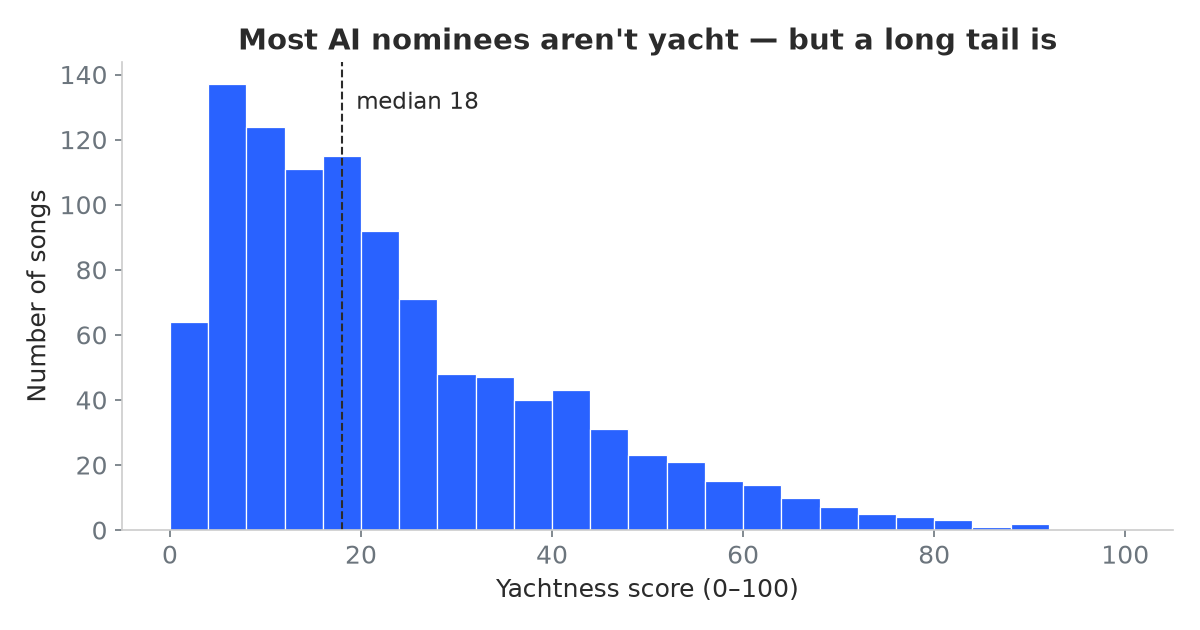
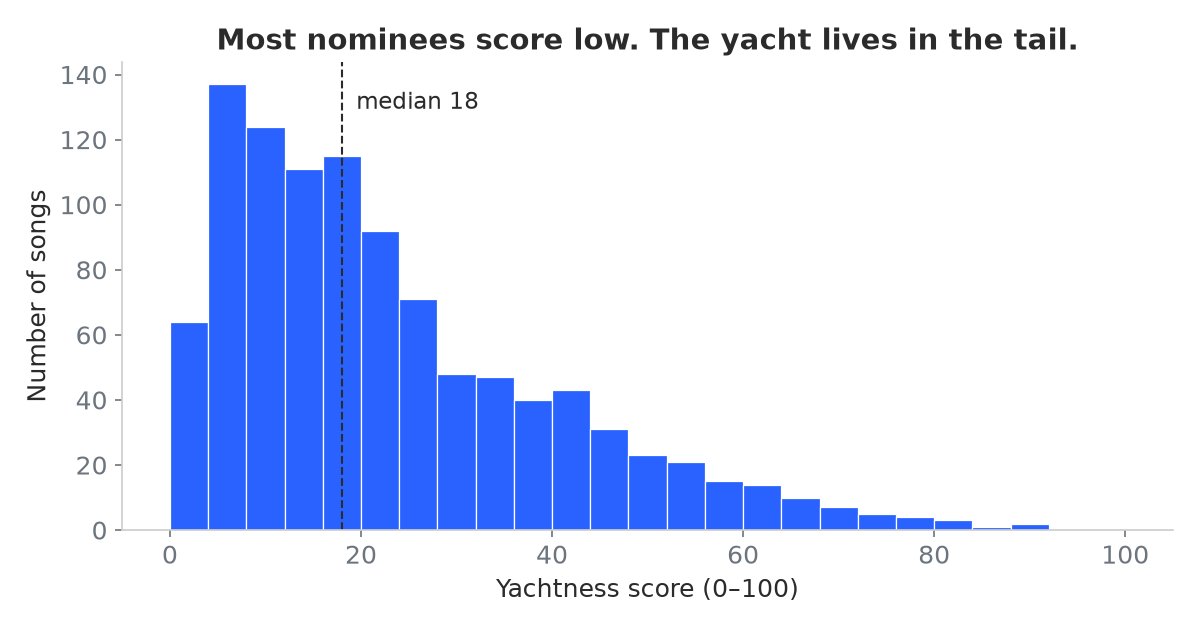
Rewrite blog posts in a more natural voice
Rework both posts to read more personally, drop dash punctuation,
deepen the analysis (era effect, Djavan's top-50 count, the AI's
top-20 flop), and embed the Brazilian Yacht Rock Spotify playlist.

Changed region(s): [[0.185, 0.0302, 0.8942, 0.0905]]

diff --git a/blog-brazilian-yacht-rock.html b/blog-brazilian-yacht-rock.html
@@ -49,12 +49,12 @@
     <h1 class="post-title">The Brazilian Yacht Rock Leaderboard</h1>
     <p class="post-meta">Published <time datetime="2026-07-22T22:58:00-04:00">July 22, 2026 · 10:58 PM EDT</time> · by Felipe Maia Polo</p>
 
-    <p class="lead">Brazil spent the late '70s and '80s perfecting its own strain of smooth — boogie, MPB, and jazz-funk built on the same Rhodes pianos, session players, and immaculate production as the yacht rock canon. So I asked a question: if there were a playlist called <em>Brazilian Yacht Rock</em>, what would be on it — and how yachty is it, really?</p>
+    <p class="lead">Brazil spent the late '70s and '80s perfecting its own kind of smooth. Boogie, MPB, and jazz-funk records built on the same Rhodes pianos, session players, and immaculate production that the yacht rock canon is made of. As a Brazilian who <a href="blog-yachtness-score.html">built a yacht rock detector</a>, I had to know: how yachty is Brazilian music, really?</p>
 
     <h2>The experiment</h2>
-    <p>The setup was a small collaboration between two very different kinds of model. First I asked a large language model to imagine a 1,000-song "Brazilian Yacht Rock" playlist. It returned a candidate list of <strong>1,177 songs</strong>, each tagged with its own genre label ("Core Boogie", "Smooth MPB", "Soul Suave", and so on).</p>
-    <p>Then I matched those candidates against Deezer's catalogue with strict artist-and-title verification — fuzzy matches discarded rather than risked — which left <strong>1,028 songs (87%)</strong> with a real 30-second preview. Every one of them went through the <a href="blog-yachtness-score.html">exact same model</a> that powers Yachtness Score. The top 50 are now live on the <a href="https://yachtness.org/leaderboard">leaderboard</a>.</p>
-    <p>The angle, in one line: <strong>the AI curated the candidates, but the model was the judge.</strong></p>
+    <p>I started with a question to a large language model: if there were a Spotify playlist called Brazilian Yacht Rock, which 1,000 songs would be on it? It came back with 1,177 candidates, each tagged with its own invented genre label. "Core Boogie," "Smooth MPB," "Soul Suave," and so on. Honestly, a pretty good taxonomy.</p>
+    <p>I matched those candidates against Deezer's catalogue with strict artist and title verification, dropping anything fuzzy rather than risking a wrong match. That left 1,028 songs, 87% of the list, each with a real 30-second preview. Then every one of them went through the exact same model that powers Yachtness Score. No special treatment for being Brazilian. The top 50 are now a permanent section on the <a href="https://yachtness.org/leaderboard">leaderboard</a>.</p>
+    <p>So the division of labor was: the AI curated the candidates, and the model judged them. Keep that split in mind, because it turns out to matter.</p>
 
     <figure>
       <img src="images/blog/brazilian_leaderboard.png" alt="The Brazilian Yacht Rock leaderboard, showing Carlos Bivar's 'Maré' and Djavan's 'Miragem' tied at the top with a score of 88.">
@@ -62,42 +62,54 @@
     </figure>
 
     <h2>Who won</h2>
-    <p>The two yachtiest songs are <strong>Carlos Bivar — "Maré" (88)</strong> and <strong>Djavan — "Miragem" (88)</strong>. And then there's Djavan again. And again. He takes <strong>four of the top six</strong> spots (Miragem, Infinito, Topázio, Lilás) — which makes a decent case for Djavan as Brazil's Michael McDonald. <strong>Ed Motta</strong> and <strong>Marcos Valle</strong> feature heavily just below.</p>
-    <p>One entry is special: Marcos Valle's <strong>"Estrelar" (77)</strong> is one of only five songs on the board the Yacht or Nyacht? hosts have <em>actually</em> rated — and it was also the AI's number-one pick. The model, the humans, and the language model all liked it. Consensus is rare here.</p>
+    <p>Two songs tie for first at 88: "Maré" by Carlos Bivar, a gorgeous obscurity, and "Miragem" by Djavan, which is not obscure at all if you grew up in Brazil. And then Djavan just keeps going. He has four of the top six ("Miragem," "Infinito," "Topázio," "Lilás") and eight of the top 50, more than any other artist. I went in expecting him to do well and he still beat my expectations. If yacht rock has a Brazilian Michael McDonald, the data says it is Djavan.</p>
+    <p>Behind him, Ed Motta and Lucas Arruda have four top-50 songs each, and Banda Black Rio has three. Marcos Valle is there too, and his "Estrelar" (77) deserves a special mention that I will get to.</p>
+    <p>Only five songs in the whole set had actually been rated by the Yacht or Nyacht? hosts, so for those five the board shows their cross-validated scores: "Estrelar" at 77, Biafra's "Leão Ferido" at 52, Rita Lee's "Lança Perfume" at 51, Guilherme Arantes's "Deixa Chover" at 41, and Gilberto Gil's "Palco" at 37. Everything else was scored live by the model.</p>
 
-    <h2>Most nominees aren't yacht — and that's fine</h2>
-    <p>Here's the first honest finding. The AI was asked for songs that <em>could</em> belong on a Brazilian yacht rock playlist, and it cast a wide net. The model, listening to the actual audio, was far stricter: the median score is just <strong>18</strong>, about <strong>57%</strong> of songs score 20 or below, and under <strong>2%</strong> clear 70. This isn't a playlist of yacht rock; it's a pile of candidates with a thin, genuinely smooth top layer.</p>
+    <h2>Most of the list is not yacht, and that is fine</h2>
+    <p>The AI was asked for songs that could plausibly belong on a Brazilian yacht rock playlist, and it cast a wide net. The model, actually listening to the audio, was much stricter. The median score is 18. More than half the songs (57%) score 20 or below, and only 19 songs out of 1,028 clear 70. This is not a playlist of yacht rock. It is a large pile of candidates with a thin, genuinely smooth layer floating on top.</p>
 
     <figure>
       <img src="images/blog/hist.png" alt="Histogram of yachtness scores for the 1,028 Brazilian songs, heavily concentrated below 25 with a long thin tail toward 100.">
-      <figcaption>Distribution of scores across all 1,028 songs. Most sit low; the yacht is in the tail.</figcaption>
+      <figcaption>Scores for all 1,028 songs. The median is 18. The yacht is the tail.</figcaption>
     </figure>
 
+    <h2>The boogie era hump is real</h2>
+    <p>Yacht rock is supposed to be a 1976 to 1984 phenomenon, so I checked whether the model hears an era effect in the Brazilian data too. It does, loudly. Songs released between 1977 and 1987 have a median score of 33. Songs from before 1977 have a median of 8, and everything after the '80s sits in the high teens. The window when Brazilian studios went all in on boogie and polished MPB is exactly the window the model finds smoothest.</p>
+    <p>But here is the twist: the median release year <em>inside the top 50</em> is 2005. That is because artists like Ed Motta and Lucas Arruda kept making, and still make, records with that exact production style, and the model cannot tell 2015 boogie revival from 1982 boogie. The era ended. The sound never did.</p>
+
     <h2>Does the AI's taxonomy match the model's ears?</h2>
-    <p>Surprisingly often, yes. When you group songs by the genre label the language model assigned and look at what the audio model thought, the ordering is intuitive: <strong>"Core Boogie" sits highest</strong> (median 35), smooth and jazz-funk categories cluster in the middle, and acoustic or aggressive buckets — <strong>Rap/Funk, Tropicália, Honorary Bossa</strong> — sink to the bottom. The two models never spoke to each other, yet they broadly agree on which <em>styles</em> sound yachty.</p>
+    <p>More than I expected. If you group the songs by the genre label the language model invented and look at what the audio model thought of each group, the ordering is remarkably sensible. "Core Boogie" has the highest median at 35, the smooth and jazz-funk categories cluster in the middle, and the acoustic and aggressive buckets (Rap/Funk, Tropicália, Honorary Bossa) sink to the bottom with medians under 10. Two models that never exchanged a word, one reading text and one hearing audio, and they broadly agree on which styles are smooth.</p>
+    <p>One nuance: although Core Boogie has the highest median, the category that put the most songs in the top 50 is actually Smooth MPB, with 17. It is a much bigger bucket, so even a lower hit rate produces more hits. Djavan alone does a lot of that work.</p>
 
     <figure>
       <img src="images/blog/by_category.png" alt="Strip plot of yachtness score by the AI's playlist category, with Core Boogie highest and Rap/Funk BR lowest.">
-      <figcaption>Score by the AI's own genre label (black bar = category median). Boogie floats; acoustic sinks.</figcaption>
+      <figcaption>Score by the AI's own genre label (black bar = category median). Boogie floats, acoustic sinks.</figcaption>
     </figure>
 
-    <h2>The interesting part: the AI knew <em>which</em> songs, not which would win</h2>
-    <p>The language model also gave each candidate a rank — its own 1-to-1,177 ordering of how central it was to the idea. If the AI truly had "ears," its ranking should predict the model's scores. It barely does: the correlation between the AI's rank and the audio score is essentially flat (<strong>r ≈ −0.12</strong>).</p>
-    <p>That gap is the whole story. The AI was <em>excellent</em> at nominating plausible songs — its shortlist really is full of smooth Brazilian music — but it had almost no idea which of them would actually sound the yachtiest to a model trained on audio. Curation and judgment turned out to be two different skills.</p>
+    <h2>The AI knew which songs, not which would win</h2>
+    <p>The language model also handed me its own ranking, an ordering from 1 to 1,177 of how central each song was to the concept. If the AI could actually hear, its ranking should predict the model's scores. It barely does. The correlation is essentially flat, r = −0.12, and yes, that is negative.</p>
+    <p>My favorite detail: the AI's top 20 picks have a median score of 17, basically the same as the full list. It stacked its highest ranks with Marcos Valle songs, which is a reasonable prior, but then its number 1 pick ("Estrelar") scored 77 while its number 2 pick scored 7 and its number 3 scored 13. It nailed the single most famous answer and then fell off a cliff.</p>
+    <p>I think that gap is the most interesting finding in the whole exercise. The AI was genuinely good at nomination. Its shortlist really is full of smooth Brazilian music, and its genre taxonomy holds up against the audio. But knowing which songs belong in the conversation and knowing which ones actually sound the yachtiest are two different skills, and it only has the first one. Curation is not judgment.</p>
 
     <figure>
       <img src="images/blog/rank_vs_score.png" alt="Scatter of the AI's playlist rank against yachtness score, with a nearly flat trend line and Pearson r of about -0.12.">
-      <figcaption>The AI's ranking vs. the model's score. Almost no relationship — nominating isn't judging.</figcaption>
+      <figcaption>The AI's own ranking against the model's score. Almost no relationship.</figcaption>
     </figure>
 
-    <h2>And a reminder that this measures sound, not quality</h2>
-    <p>Caetano Veloso's "Sampa" — a beloved classic by any measure — scores about <strong>3</strong>. That's not a value judgment; it's acoustic MPB, and acoustic MPB simply isn't yacht rock. The model hears a voice and a guitar where the yacht canon has Rhodes, reverb, and a full session band. A low score means "doesn't sound like the target," never "isn't good." If anything, "Sampa" scoring 3 is the model working exactly as intended.</p>
+    <h2>A reminder that this measures sound, not quality</h2>
+    <p>Caetano Veloso's "Sampa" is one of the most beloved songs ever written about a Brazilian city. It scores a 3. That is not the model being wrong. It is acoustic MPB, a voice and a guitar, and the yacht canon is Rhodes, reverb, and a full session band. A low score means "does not sound like the target," never "is not good." If anything, "Sampa" scoring 3 is proof the model is doing its job.</p>
 
     <div class="note">
-      Two models, one playlist: a language model that knew Brazilian music well enough to nominate the right songs, and an audio model that judged how they actually sound. Where they agree, you get "Estrelar." Where they don't, you learn something about both.
+      Two models, one playlist. A language model that knew Brazilian music well enough to nominate the right songs, and an audio model that judged how they actually sound. Where they agree you get "Estrelar." Where they disagree, you learn something about both.
     </div>
 
-    <p>Browse the full top 50 — and the yachtiest and driest songs the model has ever heard — on the <a href="https://yachtness.org/leaderboard">Yachtness leaderboard</a>.</p>
+    <h2>Listen for yourself</h2>
+    <p>Numbers are nice, but this is music. I put the winners into a Spotify playlist so you can judge the model with your own ears:</p>
+
+    <iframe data-testid="embed-iframe" style="border-radius:12px; margin: 8px 0 24px;" src="https://open.spotify.com/embed/playlist/62HCTkQz8WqSJqGUWsxAaU?utm_source=generator&theme=0&si=47a3349db6c345a9" width="100%" height="352" frameBorder="0" allowfullscreen="" allow="autoplay; clipboard-write; encrypted-media; fullscreen; picture-in-picture" loading="lazy" title="Brazilian Yacht Rock playlist on Spotify"></iframe>
+
+    <p>And the full top 50, along with the yachtiest and driest songs the model has ever heard, lives on the leaderboard.</p>
     <p><a class="cta" href="https://yachtness.org/leaderboard">See the Brazilian Yacht Rock board →</a></p>
 
     <p class="disclaimer">Yachtness Score is an unaffiliated hobby project. Song ratings belong to the hosts of <a href="https://www.yachtornyacht.com/">Yacht or Nyacht?</a>; the candidate list was generated by a language model and matched against Deezer's catalogue.</p>

diff --git a/blog-yachtness-score.html b/blog-yachtness-score.html
@@ -13,7 +13,7 @@
   <meta charset="utf-8">
   <meta name="viewport" content="width=device-width, initial-scale=1, shrink-to-fit=no">
   <title>Yachtness Score — Felipe Maia Polo</title>
-  <meta name="description" content="How I built Yachtness Score, a free web app that rates any song 0–100 on how yacht rock it sounds.">
+  <meta name="description" content="How I built Yachtness Score, a free web app that rates any song from 0 to 100 on how yacht rock it sounds.">
 
   <link rel="preconnect" href="https://fonts.googleapis.com">
   <link rel="preconnect" href="https://fonts.gstatic.com" crossorigin>
@@ -49,48 +49,49 @@
     <h1 class="post-title">Yachtness Score</h1>
     <p class="post-meta">Published <time datetime="2026-07-22T22:57:00-04:00">July 22, 2026 · 10:57 PM EDT</time> · by Felipe Maia Polo</p>
 
-    <p class="lead">I made a free web app called <a href="https://yachtness.org">Yachtness Score</a> that listens to any song and rates it from 0 to 100 on one very specific question: <em>how much does this sound like yacht rock?</em></p>
+    <p class="lead">I spent the last few weekends building something deeply unserious. It is called <a href="https://yachtness.org">Yachtness Score</a>, and it listens to any song and tells you, on a scale from 0 to 100, how much it sounds like yacht rock.</p>
 
-    <h2>First, what is yacht rock?</h2>
-    <p>Yacht rock is the smooth, studio-polished soft rock of roughly 1976–1984 — think Steely Dan, Michael McDonald, and Christopher Cross. Warm Rhodes pianos, immaculate session-musician playing, jazzy chords, and not a rough edge in sight. The name is a joke about the kind of breezy, expensive-sounding music you might play on a boat, and it has since become a genuine fan obsession.</p>
-    <p>The definitive authority is the podcast <a href="https://www.yachtornyacht.com/">Yacht or Nyacht?</a>, whose hosts rate songs on a 0–100 scale and draw the line at 50: above it is Yacht Rock, below it is "Nyacht." Their ratings are lovingly argued and gloriously subjective — which makes them perfect training data.</p>
+    <h2>Wait, what is yacht rock?</h2>
+    <p>Yacht rock is the smooth, studio-polished soft rock made roughly between 1976 and 1984. Think Steely Dan, Michael McDonald, Christopher Cross. Warm Rhodes pianos, expensive session musicians, jazzy chords, and not a single rough edge anywhere. The name started as a joke about the kind of music rich people presumably play on boats, and then the joke became a genre, and now the genre has scholars.</p>
+    <p>The main scholars are the hosts of the podcast <a href="https://www.yachtornyacht.com/">Yacht or Nyacht?</a>, who rate songs on a 0 to 100 scale and draw a hard line at 50. Above the line, yacht. Below it, "nyacht." Their ratings are argued over at length and gloriously subjective, which is exactly what makes them fun training data.</p>
 
     <h2>The idea</h2>
-    <p>The hosts have rated thousands of songs by ear. Could a model learn to hear what they hear? Yachtness Score is my attempt: search for any song and it returns a calibrated probability, dressed up as a 0–100 score with a verdict running from <strong>LANDLOCKED</strong> to <strong>MAXIMUM YACHT</strong> — and a hand-written one-liner for every single score. "Take On Me" scores 3: <em>"If smoothness were water this would be a desert. Nyacht."</em></p>
+    <p>The hosts have rated thousands of songs by ear. I wanted to know if a model could learn to hear whatever it is they hear. So I trained one on their ratings, and now you can search any song and get back a calibrated probability dressed up as a score, with verdicts running from LANDLOCKED to MAXIMUM YACHT. I also wrote a one-liner for every single score from 0 to 100, because if you are going to build something silly you should commit. "Take On Me" scores a 3: <em>"If smoothness were water this would be a desert. Nyacht."</em></p>
 
     <figure>
       <img src="images/blog/score_card.png" alt="Yachtness score card for the Doobie Brothers' 'What a Fool Believes', showing a gauge reading 76 out of 100 and the verdict 'SMOOTH SAILING'.">
-      <figcaption>The Doobie Brothers' "What a Fool Believes" scores 76 — "Smooth Sailing." Songs the podcast already rated return their cross-validated score.</figcaption>
+      <figcaption>"What a Fool Believes" scores 76, verdict Smooth Sailing. Songs the podcast already rated return their cross-validated score, never an in-sample fit.</figcaption>
     </figure>
 
     <h2>How it works</h2>
-    <p>The pipeline is deliberately simple, and every number below comes from the app's own <a href="https://yachtness.org/method">method page</a>:</p>
+    <p>The pipeline is short, and every number here comes from the site's own <a href="https://yachtness.org/method">method page</a>:</p>
     <ul>
-      <li><strong>Ground truth:</strong> ~1,900 songs rated by the Yacht or Nyacht? hosts, treating each song's average host score as the label.</li>
-      <li><strong>Audio:</strong> a 30-second preview from Deezer, matched only when artist and title agree.</li>
-      <li><strong>Features:</strong> the clip goes through <a href="https://huggingface.co/m-a-p/MERT-v1-95M">MERT-v1-95M</a>, a music foundation model. All 13 of its transformer layers are mean-pooled over time, giving a 9,984-dimensional description of how the recording <em>sounds</em>.</li>
-      <li><strong>Classifier:</strong> an ensemble of 5 L2-regularised logistic regressions — one per cross-validation fold — whose calibrated probabilities are averaged into the final P(yacht).</li>
+      <li><strong>Ground truth.</strong> About 1,900 songs rated by the Yacht or Nyacht? hosts, using each song's average host score as the label.</li>
+      <li><strong>Audio.</strong> A 30-second preview from Deezer, matched only when artist and title both agree. Fuzzy matches get thrown away rather than risked.</li>
+      <li><strong>Features.</strong> The clip goes through <a href="https://huggingface.co/m-a-p/MERT-v1-95M">MERT-v1-95M</a>, a music foundation model. I mean-pool all 13 of its transformer layers over time, which gives 9,984 numbers describing how the recording sounds.</li>
+      <li><strong>Classifier.</strong> Five L2-regularised logistic regressions, one per cross-validation fold, whose probabilities get averaged into the final P(yacht).</li>
     </ul>
-    <p>That's it: a strong audio encoder, a boring linear model on top, and honest cross-validation so a song is never scored by a model that trained on it.</p>
+    <p>So it is a big audio encoder with a deliberately boring linear model on top, plus honest nested cross-validation so no song is ever scored by a model that saw it during training. As a statistician I feel contractually obligated to mention that last part.</p>
 
-    <h2>Does it actually work?</h2>
-    <p>Reasonably well, for such a fuzzy target. On held-out songs it gets the Yacht/Nyacht call right about <strong>70%</strong> of the time (versus 51% for always guessing the majority class), ranks a random yacht song above a random non-yacht song <strong>77%</strong> of the time (ROC AUC 0.766), and its probability tracks the hosts' full 0–100 scores at a Pearson correlation of <strong>0.55</strong> — even though it was only trained on a yes/no label. It recovers more than it was asked to.</p>
+    <h2>Does it work?</h2>
+    <p>Better than I expected for such a fuzzy target. On held-out songs it gets the yacht/nyacht call right about 70% of the time, where always guessing the majority class would get you 51%. The ROC AUC is 0.766, meaning it ranks a random yacht song above a random nyacht song 77% of the time. And here is my favorite part: the model was trained only on a yes/no label, but its probability still correlates with the hosts' full 0 to 100 scores at r = 0.55. It recovers more than it was asked to learn.</p>
+    <p>The probabilities are also honestly calibrated. Of the songs the model calls 30%, close to 30% really are yacht. So the number on the dial reads as genuine confidence, not just a ranking.</p>
 
     <figure>
       <img src="images/blog/method_metrics.png" alt="Metrics table from the method page: ROC AUC 0.766, accuracy 0.70, reliability 0.0015, and Pearson r of 0.55 against the hosts' 0-100 scores.">
       <figcaption>The headline numbers, all measured on songs held out of training.</figcaption>
     </figure>
 
-    <h2>What it gets right — and wrong</h2>
-    <p>It is confident and correct at the <em>extremes</em>. Genuine yacht rock lands high; aggressive, lo-fi, or acoustic music lands low. The trouble is the middle of the scale, where a score near 50 is close to a coin flip — exactly the songs the hosts themselves argue about.</p>
-    <p>Its most charming failure is that it <strong>over-rates polished non-yacht music</strong>. Japanese city pop, slick modern R&amp;B, and immaculately produced boogie can all fool it, because it hears the <em>production</em> — the Rhodes, the reverb, the session-grade smoothness — rather than the genre or the era. It judges sound, not category.</p>
+    <h2>Where it fails</h2>
+    <p>It is confident and correct at the extremes. Real yacht rock lands high, and aggressive or lo-fi or acoustic music lands low. The middle is another story. A score near 50 is close to a coin flip, and fittingly, the songs that land there tend to be the same ones the hosts argue about on the show.</p>
+    <p>Its most charming failure is that it over-rates polished music that is not yacht. Japanese city pop fools it. Slick modern R&amp;B fools it. Anything with a Rhodes, tasteful reverb, and session-grade playing can sneak aboard, because the model hears production, not genre and not era. It judges the sound, and nothing else.</p>
 
     <div class="note">
-      <strong>It's a rough detector, not a verdict.</strong> A high score means "this sounds like the stuff the hosts like," not "this <em>is</em> yacht rock." When in doubt, trust the podcast, not the robot.
+      <strong>It is a rough detector, not a verdict.</strong> A high score means "this sounds like the stuff the hosts like," not "this is yacht rock." When the robot and the podcast disagree, trust the podcast.
     </div>
 
     <h2>Try it</h2>
-    <p>Search a song you love and see where it lands. It's free, a little silly, and — I hope — occasionally insightful. Ratings belong to the Yacht or Nyacht? hosts; the site is an unaffiliated hobby project.</p>
+    <p>Search a song you love and see where it lands. There are also <a href="https://yachtness.org/leaderboard">leaderboards</a> with the 50 yachtiest and 50 driest songs the model has ever rated. It is free, a little silly, and occasionally insightful.</p>
     <p><a class="cta" href="https://yachtness.org">Score a song at yachtness.org →</a></p>
 
     <p class="disclaimer">Yachtness Score is an unaffiliated hobby project. The underlying song ratings belong to the hosts of <a href="https://www.yachtornyacht.com/">Yacht or Nyacht?</a>.</p>

diff --git a/blog.html b/blog.html
@@ -46,18 +46,18 @@
 
   <div class="blog-wrap">
     <h1 class="page-title">Blog</h1>
-    <p class="page-sub">Notes on side projects and research — mostly machine learning, occasionally yacht rock.</p>
+    <p class="page-sub">Notes on side projects and research. Mostly machine learning, occasionally yacht rock.</p>
 
     <ul class="post-list">
       <li class="post-card">
         <h2><a href="blog-brazilian-yacht-rock.html">The Brazilian Yacht Rock Leaderboard</a></h2>
         <div class="date">July 22, 2026</div>
-        <p class="teaser">I asked an AI to imagine a 1,000-song "Brazilian Yacht Rock" playlist, then let my model be the judge. The AI knew which songs to nominate — but not which would win.</p>
+        <p class="teaser">I asked an AI to dream up a 1,000-song Brazilian Yacht Rock playlist, then let my model judge it. The AI knew which songs to nominate, but not which would win.</p>
       </li>
       <li class="post-card">
         <h2><a href="blog-yachtness-score.html">Yachtness Score</a></h2>
         <div class="date">July 22, 2026</div>
-        <p class="teaser">I built a free web app that scores any song 0–100 on how "yacht rock" it sounds. Here is how it works, what it gets right, and where it goes wrong.</p>
+        <p class="teaser">I built a free web app that scores any song from 0 to 100 on how yacht rock it sounds. How it works, what it gets right, and where it fails.</p>
       </li>
     </ul>
   </div>
